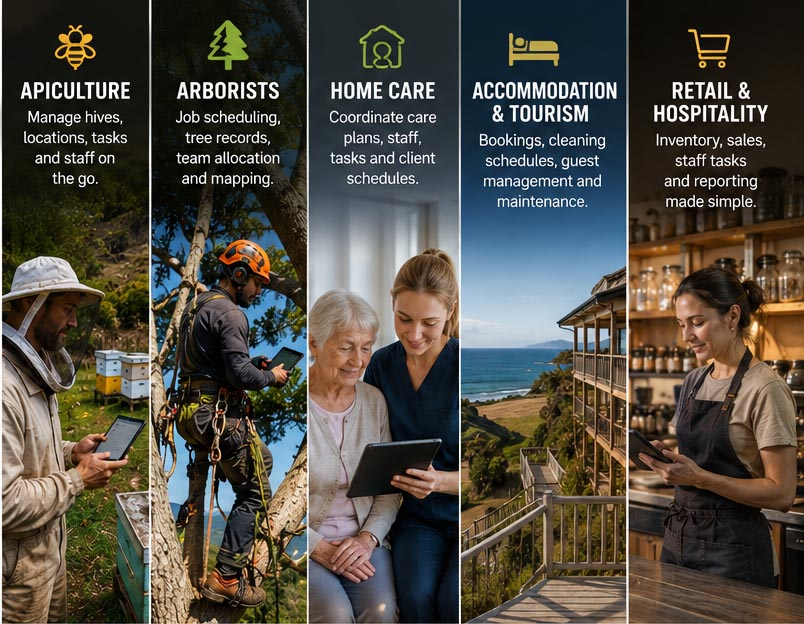
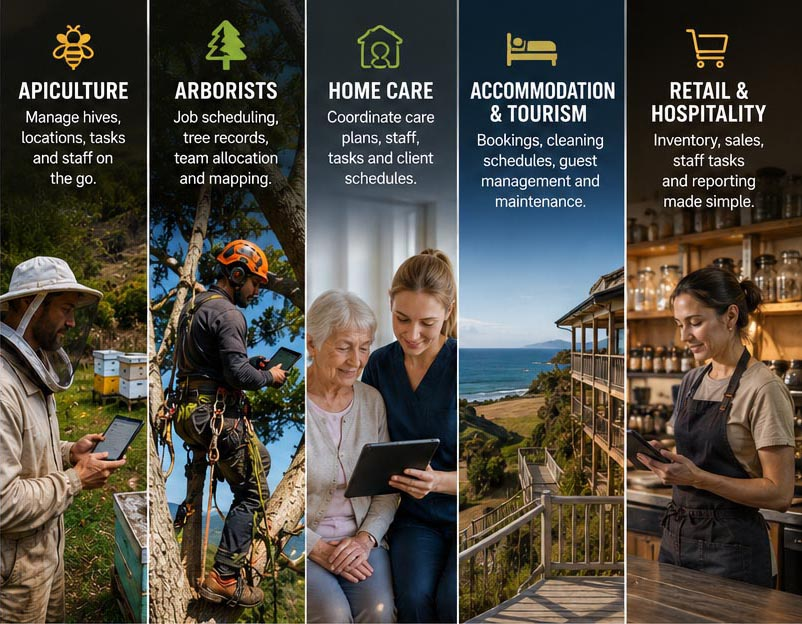
Promote Marshall Solutions with a standout hero feature callout.
Replace the generic secondary button with a branded card highlighting custom AI integration for SMBs, and include the updated multi-industry banner image.

diff --git a/styles.css b/styles.css
@@ -214,6 +214,68 @@ p:last-child {
   color: var(--bg);
 }
 
+.hero-feature {
+  display: block;
+  margin-top: 0.5rem;
+  padding: 1.25rem 1.5rem;
+  background: linear-gradient(135deg, var(--marshall-maroon) 0%, #3a0c17 100%);
+  border: 1px solid #7a2438;
+  border-radius: var(--radius-md);
+  text-decoration: none;
+  color: var(--text);
+  box-shadow: 0 4px 16px rgba(74, 16, 29, 0.45);
+  transition: transform 0.2s ease, box-shadow 0.2s ease, border-color 0.2s ease;
+}
+
+.hero-feature:hover {
+  transform: translateY(-2px);
+  border-color: var(--accent);
+  box-shadow: 0 6px 20px rgba(201, 162, 39, 0.25);
+}
+
+.hero-feature-badge {
+  display: inline-block;
+  font-size: 0.8rem;
+  font-weight: 700;
+  letter-spacing: 0.04em;
+  text-transform: uppercase;
+  color: #f0e6c8;
+  background: rgba(201, 162, 39, 0.2);
+  border: 1px solid var(--accent);
+  border-radius: var(--radius-sm);
+  padding: 0.2rem 0.6rem;
+  margin-bottom: 0.6rem;
+}
+
+.hero-feature-title {
+  display: block;
+  font-size: clamp(1.05rem, 2.5vw, 1.2rem);
+  font-weight: 700;
+  line-height: 1.35;
+  color: #fff;
+  margin-bottom: 0.4rem;
+}
+
+.hero-feature-desc {
+  display: block;
+  font-size: 0.95rem;
+  line-height: 1.5;
+  color: #d4ccc4;
+  margin-bottom: 0.75rem;
+  max-width: 36rem;
+}
+
+.hero-feature-action {
+  display: inline-block;
+  font-size: 0.9rem;
+  font-weight: 600;
+  color: var(--accent);
+}
+
+.hero-feature:hover .hero-feature-action {
+  color: #f0e6c8;
+}
+
 /* Mini CTAs */
 .mini-cta {
   margin-top: 1.5rem;
@@ -708,6 +770,16 @@ body.marshall-page .hero {
     align-items: center;
     text-align: center;
     gap: 1rem;
+  }
+
+  .hero-feature {
+    width: 100%;
+    text-align: center;
+  }
+
+  .hero-feature-desc {
+    margin-left: auto;
+    margin-right: auto;
   }
 
   .portrait {

diff --git a/index.html b/index.html
@@ -85,8 +85,13 @@
           <div class="cta-container">
             <a href="mailto:[email redacted]" class="cta-button primary">Secure your IT confidence — Email Now</a>
             <a href="tel:+64278142222" class="cta-button secondary">Call +64 27 814 2222</a>
-            <a href="marshall-solutions.html" class="cta-button secondary">Custom Business Systems →</a>
           </div>
+          <a href="marshall-solutions.html" class="hero-feature">
+            <span class="hero-feature-badge">Marshall Solutions</span>
+            <span class="hero-feature-title">Custom AI integration for small &amp; medium businesses</span>
+            <span class="hero-feature-desc">Affordable, locally built systems that cut admin and fit how you already work.</span>
+            <span class="hero-feature-action">Explore Marshall Solutions →</span>
+          </a>
           <p class="hero-tagline">keeping your business stable and profitable.</p>
         </div>
       </div>